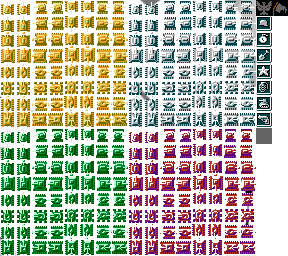
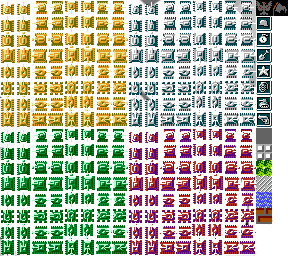
Sprite was changed

Changed region(s): [[0.875, 0.5625, 0.9688, 0.875]]

diff --git a/Task8-JS Game/src/js/game.js b/Task8-JS Game/src/js/game.js
@@ -76,16 +76,6 @@ function draw() {
     );
   }
 
-  ctx.fillStyle = '#ff0000';
-  for (let i = 0; i < textures.length; i += 1) {
-    ctx.fillRect(
-      textures[i].position.x,
-      textures[i].position.y,
-      textures[i].size.width,
-      textures[i].size.height,
-    );
-  }
-
   for (let i = 0; i < textures.length; i += 1) {
     ctx.drawImage(
       window.resources.getImg(textures[i].spriteInfo.url),
@@ -157,8 +147,8 @@ const frame = () => {
 };
 
 
-function initialize(all, texturesSprite) {
-  spriteMaker = new SpriteMaker(all, texturesSprite);
+function initialize(all) {
+  spriteMaker = new SpriteMaker(all);
   const playerSprite = spriteMaker.getSpriteFor('player');
   const enemySprite = spriteMaker.getSpriteFor('enemy');
   const wallSprite = spriteMaker.getSpriteFor('wall');

diff --git a/Task8-JS Game/src/js/Managers/spriteMaker.js b/Task8-JS Game/src/js/Managers/spriteMaker.js
@@ -1,12 +1,11 @@
 import Sprite from './../entities/sprite';
 
-function SpriteMaker(all, textures) {
+function SpriteMaker(all) {
   this.all = all;
-  this.textures = textures;
   const playerSprite = new Sprite(all, 0, 0, 16, 16);
   const standartEnemy = new Sprite(all, 128, 64, 16, 16);
-  const wallSprite = new Sprite(all, 256, 128, 16, 16);
-  const stillSprite = new Sprite(textures, 0, 0, 16, 16);
+  const wallSprite = new Sprite(all, 256, 208, 16, 16);
+  const stillSprite = new Sprite(all, 256, 144, 16, 16);
   this.types = {
     player: () => playerSprite,
     enemy: () => standartEnemy,

diff --git a/Task8-JS Game/src/js/config.js b/Task8-JS Game/src/js/config.js
@@ -1,7 +1,7 @@
 const fps = 60;
 const updatesPerSecond = 30;
-const gameWidth = 880;
-const gameHeight = 880;
+const gameWidth = 768;
+const gameHeight = 768;
 const bulletSpeed = 1000;
 const bulletWidth = 5;
 const bulletHeight = 5;
@@ -14,10 +14,10 @@ const playerKeys = {
   shoot: ['SPACE'],
 };
 const playerSpeed = 100;
-const blockWidth = 48;
-const blockHeight = 48;
-const wallWidth = 55;
-const wallHeight = 55;
+const blockWidth = 40;
+const blockHeight = 40;
+const wallWidth = 48;
+const wallHeight = 48;
 
 const all = {
   fps,

diff --git a/Task8-JS Game/src/app.js b/Task8-JS Game/src/app.js
@@ -1,12 +1,11 @@
 import './js/helpers/keyHandler';
 import './js/helpers/resourceLoader';
 import * as all from './assets/img/allObj.png';
-import * as textures from './assets/img/textures.png';
 import init from './js/game';
 
 window.onload = () => {
-  window.resources.load([all, textures]);
+  window.resources.load(all);
   setTimeout(() => {
-    init(all, textures);
+    init(all);
   }, 1000);
 };
